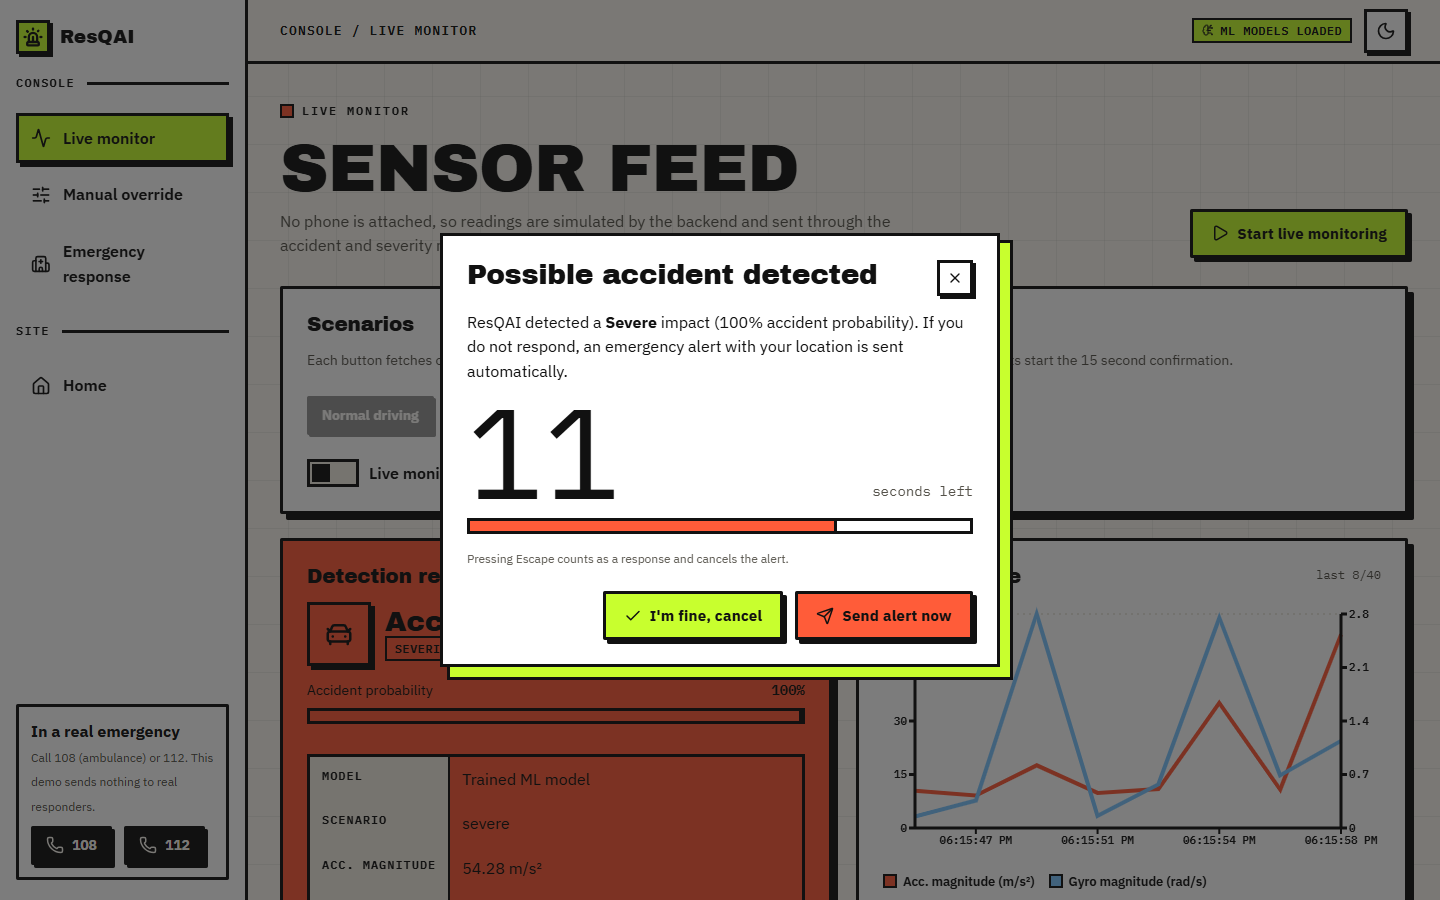
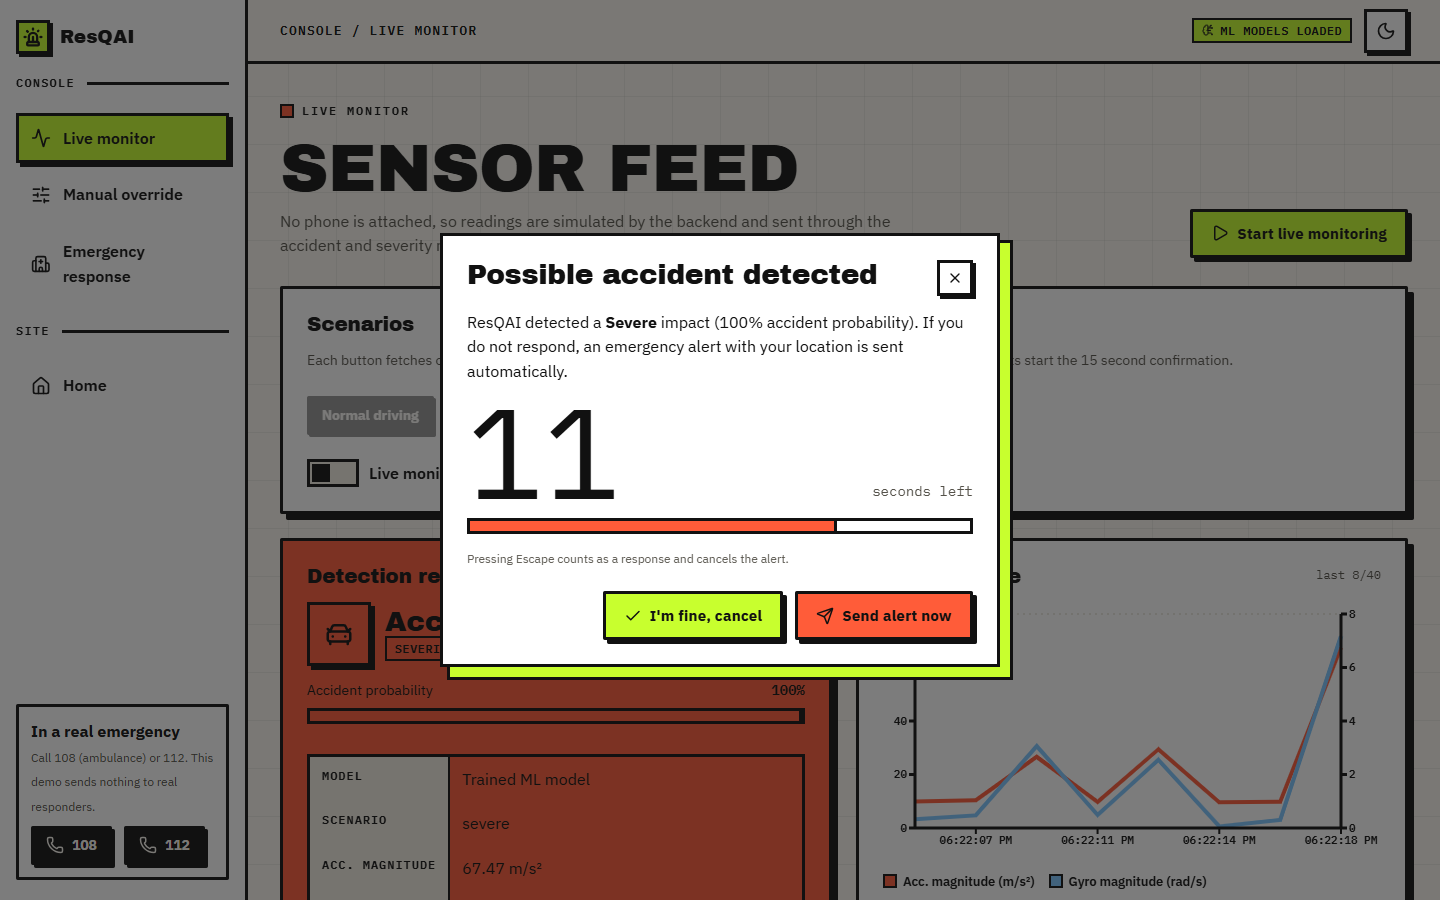
Align simulator with training

diff --git a/CSE/A/CSE-A-A2/8.ProjectCode/app.py b/CSE/A/CSE-A-A2/8.ProjectCode/app.py
@@ -193,25 +193,27 @@ def api_simulate():
             jerk=abs(random.gauss(6, 2)),
         )
 
-    def crash(mag_range, speed_change_range, jerk_mean):
+    def crash(mag_range, xy_noise, z_sd, gyro_sd, speed_range, speed_change_range, jerk_mean, jerk_sd):
+        # Parameters mirror train_models.py per severity, so a simulated "moderate" crash looks like
+        # the moderate crashes the severity model was trained on (same speed, spin and jerk ranges).
         mag = random.uniform(*mag_range)
         theta = random.uniform(0, 2 * math.pi)
         return dict(
-            acc_x=mag * math.cos(theta) + random.gauss(0, 1.5),
-            acc_y=mag * math.sin(theta) + random.gauss(0, 1.5),
-            acc_z=random.gauss(g, 2.0),
-            gyro_x=random.gauss(0, 1.5), gyro_y=random.gauss(0, 1.5), gyro_z=random.gauss(0, 1.5),
-            speed_before=random.uniform(10, 90),
+            acc_x=mag * math.cos(theta) + random.gauss(0, xy_noise),
+            acc_y=mag * math.sin(theta) + random.gauss(0, xy_noise),
+            acc_z=random.gauss(g, z_sd),
+            gyro_x=random.gauss(0, gyro_sd), gyro_y=random.gauss(0, gyro_sd), gyro_z=random.gauss(0, gyro_sd),
+            speed_before=random.uniform(*speed_range),
             speed_change=-random.uniform(*speed_change_range),
-            jerk=abs(random.gauss(jerk_mean, 6)),
+            jerk=abs(random.gauss(jerk_mean, jerk_sd)),
         )
 
     generators = {
         "normal": normal,
         "brake": brake,
-        "minor": lambda: crash((15, 28), (10, 40), 20),
-        "moderate": lambda: crash((28, 45), (25, 55), 35),
-        "severe": lambda: crash((45, 80), (45, 100), 60),
+        "minor": lambda: crash((15, 28), 1.5, 2.0, 1.5, (10, 60), (10, 40), 20, 5),
+        "moderate": lambda: crash((28, 45), 2.0, 3.0, 2.5, (30, 90), (25, 55), 35, 8),
+        "severe": lambda: crash((45, 80), 3.0, 5.0, 4.0, (40, 140), (45, 100), 60, 12),
     }
 
     if scenario not in generators:

diff --git a/CSE/A/CSE-A-A2/8.ProjectCode/scripts/smoke_test.py b/CSE/A/CSE-A-A2/8.ProjectCode/scripts/smoke_test.py
@@ -50,6 +50,16 @@ def main():
             severe_result = res
             check("severe crash is detected", res["accident_detected"] is True and res["severity_label"] in ("Moderate", "Severe"))
 
+    # Each simulated scenario must be rated as its own severity (the simulator mirrors the training data).
+    labels = {"minor": "Minor", "moderate": "Moderate", "severe": "Severe"}
+    for scenario, label in labels.items():
+        hits = 0
+        for _ in range(40):
+            _, reading = call("GET", f"/api/simulate?scenario={scenario}")
+            _, res = call("POST", "/api/predict", reading)
+            hits += res["severity_label"] == label
+        check(f"{scenario} scenario is rated {label} (>=90% of 40)", hits >= 36, f"{hits}/40")
+
     # Manual-override payload exactly as the Manual screen builds it.
     manual = {"acc_x": 0, "acc_y": 0, "acc_z": 9.81, "gyro_x": 0, "gyro_y": 0, "gyro_z": 0.1,
               "gyro_magnitude": 0.1, "speed_before": 40, "speed_change": 0, "jerk": 0, "acc_magnitude": 9.81}

diff --git a/CSE/A/CSE-A-A2/8.ProjectCode/scripts/capture_screens.py b/CSE/A/CSE-A-A2/8.ProjectCode/scripts/capture_screens.py
@@ -1,4 +1,4 @@
-"""Walk every ResQAI screen with real data and save 1440x900 PNGs to docs/screenshots/.
+"""Walk every ResQAI screen (the product has no login, so each route is opened directly) with real data and save 1440x900 PNGs to docs/screenshots/.
 
 Usage:  python scripts/capture_screens.py [base_url]     (app must be running: run.bat)
 Also fails (exit 1) if the browser console shows errors, failed requests or 404s on assets.

diff --git a/CSE/A/CSE-A-A2/8.ProjectCode/docs/FRONTEND_PLAN.md b/CSE/A/CSE-A-A2/8.ProjectCode/docs/FRONTEND_PLAN.md
@@ -69,3 +69,10 @@ Screenshots are in `docs/screenshots/`.
 Decisions: no new backend endpoints. Moderate/Severe confirmation: Escape or "I'm fine" cancels, backdrop click does not;
 live monitoring pauses while a confirmation is open. The kit copy was adapted (its Layout depended on an auth module
 this product has no use for; added `lib/storage.js`, `lib/gsap.js`, `LineTrace` chart, Modal `dismissOnBackdrop`).
+
+### Follow-up: scenario severity mismatch
+The simulated "moderate" crash was rated Minor about 20% of the time (and "minor" rated Moderate about 30%). Cause: `/api/simulate`
+drew speed, spin and jerk from ranges that differ from `train_models.py`, so the severity model was misled by cues it never saw
+for that class. `app.py` `crash()` now uses the training ranges per severity; the models, `/api/predict` and every response
+shape are unchanged. Measured over 1000 samples each: minor 99.2% Minor, moderate 99.1% Moderate, severe 99.5% Severe.
+`scripts/smoke_test.py` now asserts this. The product has no login, so none was added.
